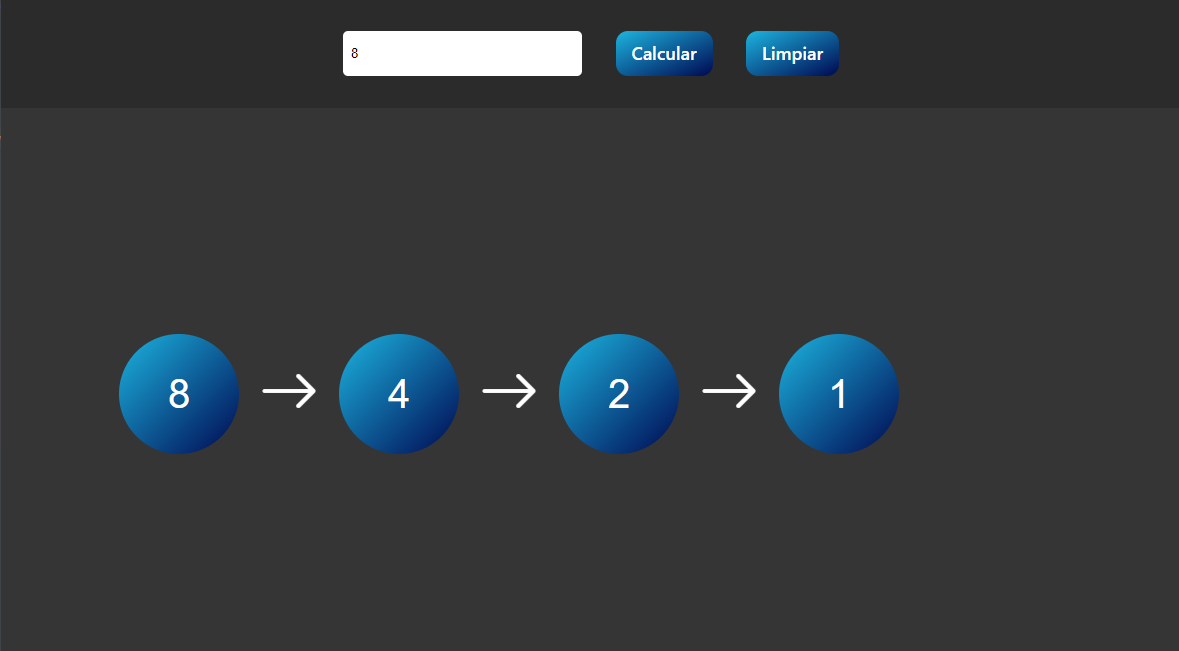
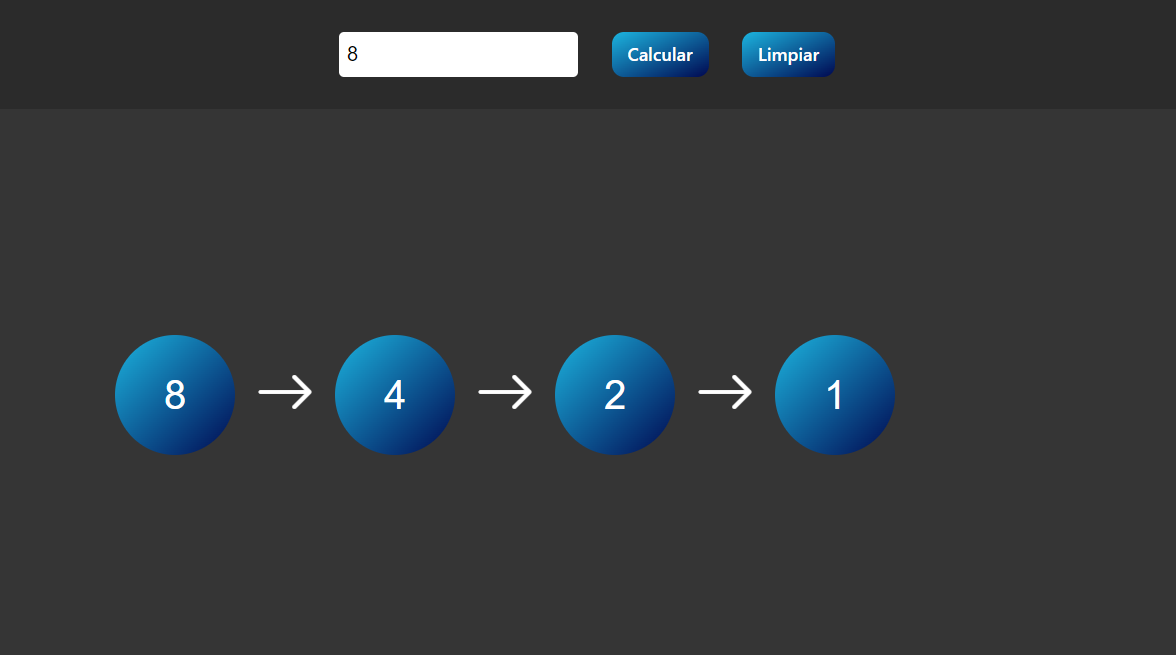
Font size updated

diff --git a/docs/index.css b/docs/index.css
@@ -42,6 +42,7 @@ header {
     padding: 8px;
     border-radius: 5px;
     border: none;
+    font-size: 20px;
 }
 
 #number:focus {

diff --git a/index.css b/index.css
@@ -42,6 +42,7 @@ header {
     padding: 8px;
     border-radius: 5px;
     border: none;
+    font-size: 20px;
 }
 
 #number:focus {
